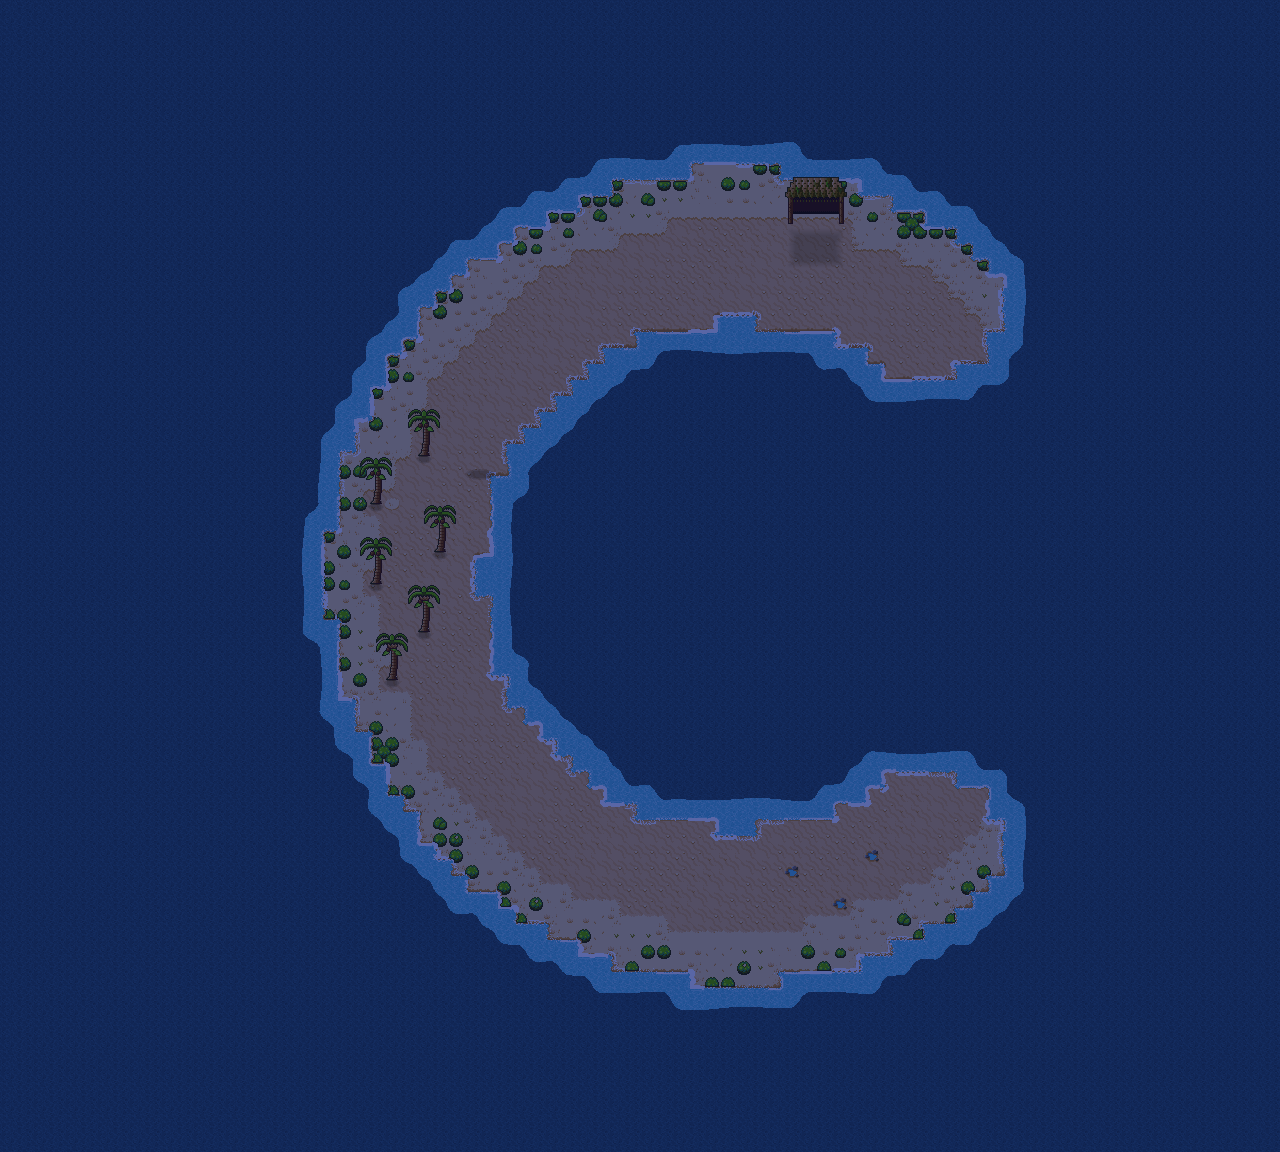
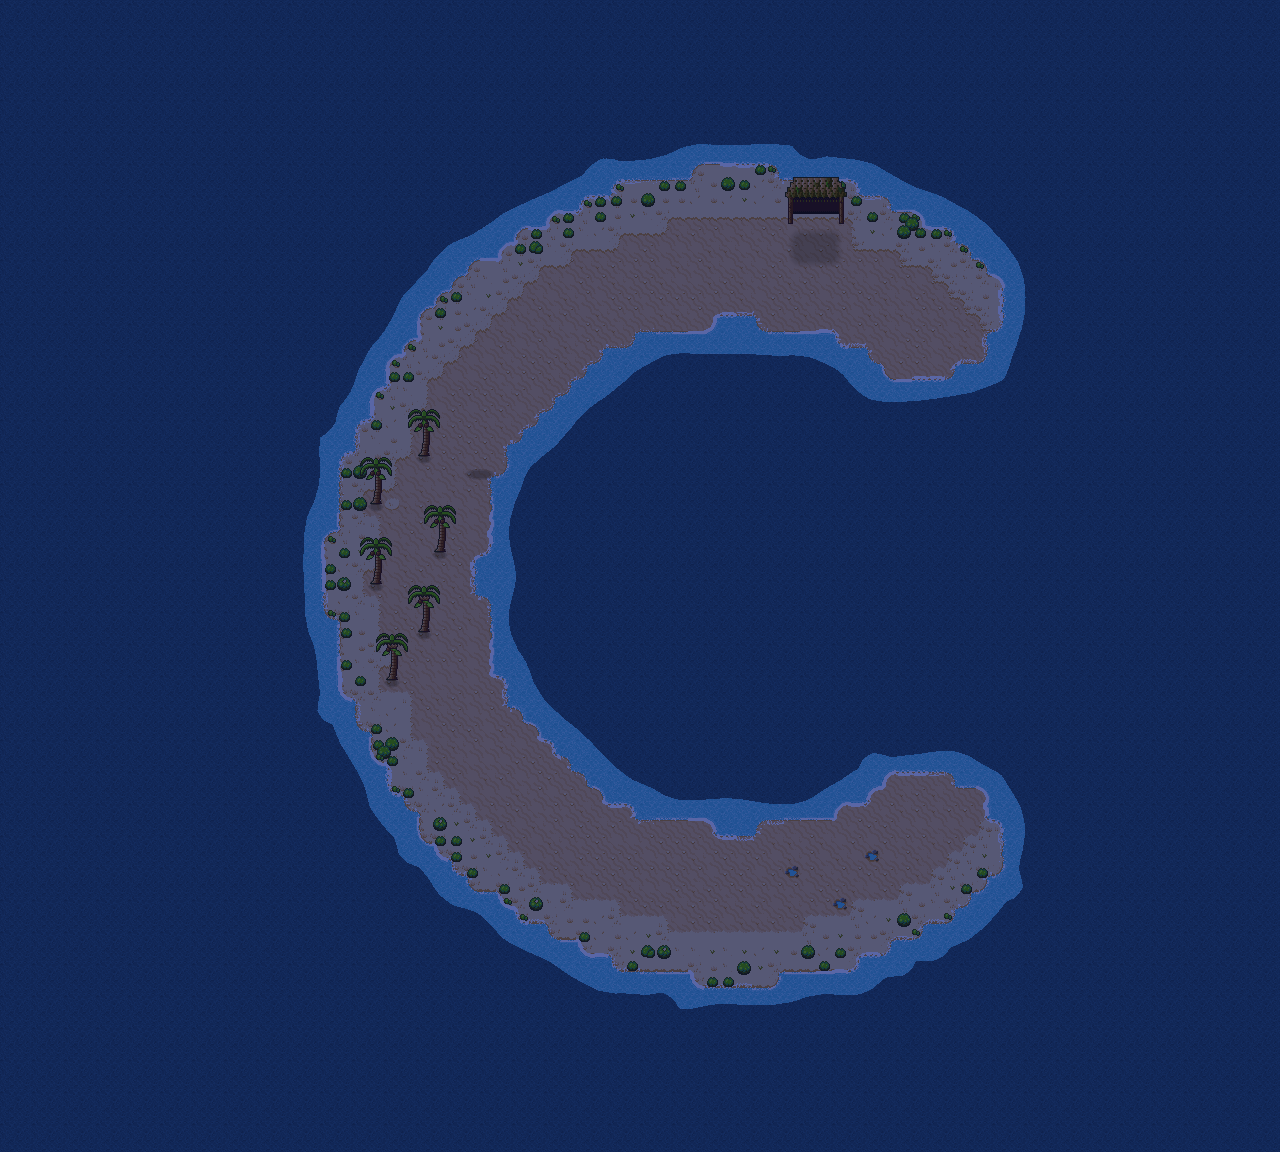
docs(art-coast-pass): build notes, re-shot terrain images, TASKS entry
The lattice values of the sea warp are cached (soft_channels 309 -> 113
ms on the sandbar). docs/art-pass sandbar_day, coast_cay_day and
sandbar_night are re-shot with the rounded coast and soft deep edge.
design.md records the measured placements, foam patches, sway and warp
excursions (at most 2 and 3 px), and the dune's inland corners as a
follow-up.

diff --git a/openspec/changes/art-coast-pass/design.md b/openspec/changes/art-coast-pass/design.md
@@ -100,7 +100,7 @@ Constraints:
 - **Warp.**
   - The shader adds a static, position-only value-noise warp to the point where it samples the mask: an integer lattice hash every 48 px, smoothstep-interpolated, ±4 px. Its slope is at most 0.25, so the warp never folds the line.
   - `soft_channels` mirrors the warp in GDScript (the same integer hash). After the clamp it checks each water cell's centre at its warped point and pushes that cell's own texel toward its extreme until the centre keeps its step. The push only moves values back toward the unblurred mask, and that mask always holds (a texel's own weight is at least 0.56 when the point moves at most a quarter cell), so the loop ends.
-- **Sway.** The time sway drops from 0.14 to 0.06. Measured on a straight blurred edge, the mask's slope is about 0.024 per px, so the sway moves the line about ±2.5 px. With the ±4 px warp the line stays within about half a cell of the cell border.
+- **Sway.** The time sway drops from 0.14 to 0.05. Measured on both islands' softened masks (build notes), the sway at its extremes now moves the line at most 2 px and the warp at most 3 px, about 5 px in all: within the review's 5.5 px, half a cell. At 0.14 the sway alone moved it 6 to 9 px.
 - **Every pixel stays a ramp colour,** on nearest filtering.
 - **The guard test** reads the bytes from `soft_channels`, not the texture, because the headless dummy renderer keeps no image. It checks every water cell's warped centre on both islands at the nominal cut.
 - **Rejected:**
@@ -147,4 +147,84 @@ Art only. Rebuild the sheets with `python -I tools/art/terrain.py --packs <main 
 
 ## Build notes
 
-Measured values and departures are recorded here as the tasks ship.
+Measured values and departures, as built on 2026-11-14 and 2026-11-15.
+
+**C2.** On a 16×16 block, the djb2 string hash alone gave a pick equal to its north-east neighbour's for 240 of 256 cells, and (x, y) always equal to (y, x): 241 of 241 mirrored pairs. Through fmix32 the counts are 58 to 60 of 256 and 54 to 67 of 241, for the sandbar, the coast cay and a test id. Godot's `hash()` of a String is djb2 over its characters, so the Python model in the review reproduces it exactly.
+
+**C1.** The fit's placements on today's sand match the review's table exactly:
+
+| Sand mask | Piece | Shift | Inset |
+|---|---|---|---|
+| 1 | pick | (-3, -3) | 1 |
+| 2 | pick | (1, -2) | 0 |
+| 3 | pick | (0, -3) | 1 |
+| 4 | pick | (-3, 2) | 1 |
+| 5 | pick | (-3, 1) | 0 |
+| 6 | pick | (2, -3) | 1 |
+| 7 | pick | (0, -3) | 1 |
+| 8 | pick | (1, 0) | 0 |
+| 9 | pick | (0, 0) | 0 |
+| 10 | pick | (2, 0) | 1 |
+| 11 | pick | (2, 0) | 1 |
+| 12 | pick | (0, 1) | 1 |
+| 13 | pick | (0, 0) | 1 |
+| 14 | pick | (0, 0) | 1 |
+
+On the rounded sand (C3) the four convex tips take the tuft and the rest move slightly:
+
+| Sand mask | Piece | Shift | Inset |
+|---|---|---|---|
+| 1 | tuft | (-4, -4) | 1 |
+| 2 | tuft | (4, -3) | 1 |
+| 3 | pick | (0, -3) | 1 |
+| 4 | tuft | (-4, 1) | 1 |
+| 5 | pick | (-3, 1) | 0 |
+| 6 | pick | (-2, 0) | 1 |
+| 7 | pick | (-2, 0) | 1 |
+| 8 | tuft | (4, 3) | 1 |
+| 9 | pick | (0, 0) | 1 |
+| 10 | pick | (2, 0) | 1 |
+| 11 | pick | (0, 0) | 1 |
+| 12 | pick | (0, 1) | 1 |
+| 13 | pick | (0, 0) | 1 |
+| 14 | pick | (0, 0) | 1 |
+
+The owner's spot, sandbar cell (20, 35), is sand mask 10 and takes the whole pick at (2, 0). C1 alone changed only `brush_shore.png`. Sand mask 0 keeps the cut and rim; no shipped layout has a scrub cell there.
+
+**C3.**
+- **The overlay.** It is regenerated as a diff against the pre-overlay `build_set` output. That gives 554 overlay pixels on rows 0 to 3, and row 4 keeps the old hand pixels.
+- **The geometry, reproducible from these numbers.**
+  - The straight edges cross the borders at west x 4, east x 10, north row 4 and south row 11, measured from masks 10, 5, 12 and 3.
+  - A convex corner is the ellipse quarter ((x − cx) / A)² + ((y − cy) / B)² < 1 round the land corner's outer point, for example (15.5, 15.5) for mask 8. Its semi-axes are A = 16 − 4 or 10 + 1 across and B = 16 − 4 or 11 + 1 down, so 12 × 12.
+  - A concave bite is the same shape round the water corner with semi-axes 4 × 4.
+  - The colours are the pack tile's own pixel where it is sand and not #d9a066 or #c08a5a, else the full tile's ripple. Every sand pixel 4-adjacent to a clear pixel inside the tile is #d9a066.
+  - Mask 3 keeps its alpha and is recoloured the same way. Masks 0, 5, 10, 12 and 15 are untouched.
+- **What it fixed.**
+  - Neighbouring masks that jog at their shared border: 30 pairs today, 0 now.
+  - Every convex tile keeps the centre pixel toward its land.
+  - The fit still finds a place on every mask.
+- **Every derived sheet followed:** sand, plain, plain shore, dune shore, brush shore, foam and shade. Sizes and tile counts are unchanged. The straight foam rows 3, 5, 10 and 12 are byte-identical. A rebuild gives the twelve tracked sheets byte for byte.
+- **The foam.** In any 8×8 patch of any frame, the whitest counts out of 64 are:
+
+| Tiles | Today | Now |
+|---|---|---|
+| Convex corners | 49–53 | 34–35 |
+| Concave corners and saddles | 41–44 | 26–29 |
+| The islet (shape untouched) | 55 | 42 |
+| Straight edges | 34–42 | 34–42 |
+
+- **Departure.** The spec scenario "Corner foam is no heavier than a straight run" reads "no whiter than the whitest straight patch, inner corners at most half, outer corners about half (at most 36)". The design's first wording, "no patch more than half white", cannot hold without changing the straight runs, which are already 34 to 42.
+- **A test that was dropped.** A GUT test that the second water pixel on the convex diagonal is the fade colour pinned nothing. On today's square corners that pixel is already three steps out and faded, and in some full frames the strip leaves it clear. The fade is pinned by the Python rule test and the patch counts.
+- **Not done here: the dune's own inland corners.** The re-shot `sandbar_day.png` still shows stair steps where the light dune meets the darker inner beach, because the dune's own corner tiles are square. It is the same "too square" look, inland. It needs a `dune.png` overlay by the same method, a follow-up next to C9 (palms counted as dune).
+
+**C4.**
+- `SeaMask.soft_channels` takes 113 ms on the sandbar (80 × 72) and 104 ms on the coast cay (88 × 64), with the lattice values cached. It took 309 ms before the cache. The island build stays under its 1500 ms bound.
+- Of the cells beside the other step, the warp check resets only 10 of 400 on the sandbar and 3 of 352 on the cay to a hard step. The rest are graded.
+- The clamp is in bytes: at most 114 on a deep texel, at least 141 on any other. A float clamp at 0.55 rounded to 140, below the cut's side, and the guard caught it.
+- Measured on the dumped masks, as the largest 8-connected distance from the rest line of a pixel that changes side: the warp moves the line at most 3 px on both islands. The sway at ±0.05 moves it at most 2 px; at ±0.14 it moved it 6 px on the sandbar and 9 px on the cay. K47's "±0.14" is superseded by 0.05.
+- `TerrainView.setup_sea` keeps its parameters and now returns the mask's bytes, kept as `TerrainView.sea_channels` for the tests. `crossing_sea.gd` is untouched and ignores the return.
+- The crossing's mask is all deep, so it skips the blur.
+- The old per-texel test `test_a_shallows_cell_picks_the_shallows_row_and_a_deep_cell_the_deep_row` still holds by the clamp. Headless, it stays pending.
+- The windowed captures compiled the shader with no error: `docs/art-pass/sandbar_day.png`, `coast_cay_day.png` and `sandbar_night.png` are re-shot, and the review driver's sandbar pass ran clean.
+
+**1-player check.** The after capture of the owner's spot comes from the review's own driver (`--only=sandbar`, solo, offline). It is `sandbar_day_west_shore_mid_x3.png` against the review's `captures/sandbar_day_west_shore_mid_x3.png`. The bushes are whole, with no cut line. The coast's corners are round. The south-facing beaches end in the 1 px lip instead of a dark ledge. The deep edge curves instead of copying the coast's staircase. C2 re-rolls every pick, so specks and bush variants differ in the after capture by design.

diff --git a/openspec/changes/art-coast-pass/tasks.md b/openspec/changes/art-coast-pass/tasks.md
@@ -58,14 +58,14 @@ Every art rebuild runs `python -I tools/art/terrain.py --packs C:/Users/liann/sr
   - g ≤ r on every texel;
   - a deep cell beside shallows is graded, neither 0 nor 255.
   Add the 1-player test: a solo sandbar run's sea material holds the softened mask, and a shallows cell beside deep keeps the shallows row.
-- [x] 5.2 Implement `SeaMask.soft_channels` and its warp mirror (design D6). Use it in `TerrainView.setup_sea`, with the signature unchanged. Add the warp and the 0.06 sway to `world_sea.gdshader`. Verify that the guard, the crossing art test, the movement playground test and the 1500 ms build bound pass.
+- [x] 5.2 Implement `SeaMask.soft_channels` and its warp mirror (design D6). Use it in `TerrainView.setup_sea`, with the signature unchanged. Add the warp and the 0.05 sway to `world_sea.gdshader`. Verify that the guard, the crossing art test, the movement playground test and the 1500 ms build bound pass.
 - [x] 5.3 Pin the shader's warp constants against the GDScript mirror in `test_terrain_view.gd`, and update K47's sway number in this design's build notes.
 
 ## 6. Integration
 
-- [ ] 6.1 Rebuild to scratch and `cmp` every terrain sheet against the tracked ones, so the build is byte-for-byte reproducible. Run `check.py`, `python -m unittest` in `tools/art`, the import twice, smoke and GUT. All must be clean.
-- [ ] 6.2 Windowed 1-player check: capture the sandbar's west shore at x3 and compare it with `captures/sandbar_day_west_shore_mid_x3.png`. Re-shoot `docs/art-pass/sandbar_day.png`, `coast_cay_day.png` and `sandbar_night.png` with `tests/manual/capture_terrain.tscn`. Read the run logs for shader errors.
-- [ ] 6.3 Update `TASKS.md`, record the measured placements and numbers in this design's build notes, and run `openspec validate art-coast-pass --strict`.
+- [x] 6.1 Rebuild to scratch and `cmp` every terrain sheet against the tracked ones, so the build is byte-for-byte reproducible. Run `check.py`, `python -m unittest` in `tools/art`, the import twice, smoke and GUT. All must be clean.
+- [x] 6.2 Windowed 1-player check: capture the sandbar's west shore at x3 and compare it with `captures/sandbar_day_west_shore_mid_x3.png`. Re-shoot `docs/art-pass/sandbar_day.png`, `coast_cay_day.png` and `sandbar_night.png` with `tests/manual/capture_terrain.tscn`. Read the run logs for shader errors.
+- [x] 6.3 Update `TASKS.md`, record the measured placements and numbers in this design's build notes, and run `openspec validate art-coast-pass --strict`.
 
 ## Workflow follow-up
 

diff --git a/TASKS.md b/TASKS.md
@@ -127,6 +127,13 @@ Voice acting, cloned voices, runtime TTS, challenges, seeded and daily runs, and
 - [ ] Profanity toggle, English localization pass
 - [ ] Set pieces (Brogue machines): six from `docs/ISLANDS.md`
 - [x] A dead co-op player spectates a living teammate, a key cycling between them, instead of watching their own body (owner, 2026-11-08; `dead-spectate`, 2026-11-14)
+- [ ] `art-coast-pass` (wave 1 of the art and HUD design pass of 2026-11-14, `docs/art-pass/review-2026-11-14/`; owner: Q1 a, Q2 a, Q4 a). It fixes the owner's "things look too square" and "grass at the border of the beach looks cut", art only, with no layout or simulation change:
+  - whole bushes on the waterline, moved onto the sand by a placement search, with a hand-drawn tuft on convex tips (C1);
+  - picks mixed by an fmix32 avalanche so they no longer run in diagonal stripes (C2);
+  - rounded coast corners through the straight edges' border points, one 1 px lip on every side, a 4-adjacent rim, and lighter corner foam (C3);
+  - a soft deep-water edge: a blurred, clamped mask and a static ±4 px warp, with every water cell's centre kept on its step (C4).
+
+  Built test-first on `claude/art-wave-1-d6d1b2`. Next waves, each its own change: darker shallows (C7), rock, palms and scrub (C9 to C12), sprites, the HUD window kit below, night light and squall rain. The coast cay's rectangles are content (C6).
 - [ ] `hud-window-kit` (OpenSpec change written 2026-11-14, wave 4 of the art and HUD design pass; owner: Q8 a, Q9 a, Q10 a, Q11 a, Q16 a). One GBA window kit in the master palette, built by `tools/art/ui.py`:
   - dark rounded HUD windows at 94%, cream paper for notes, paper panels and palette buttons in menus, Kenney's UI files gone;
   - meters as a label column with thin pre-shaded bars, Salud first, in a 132 px window clear of the secret cay's note;
